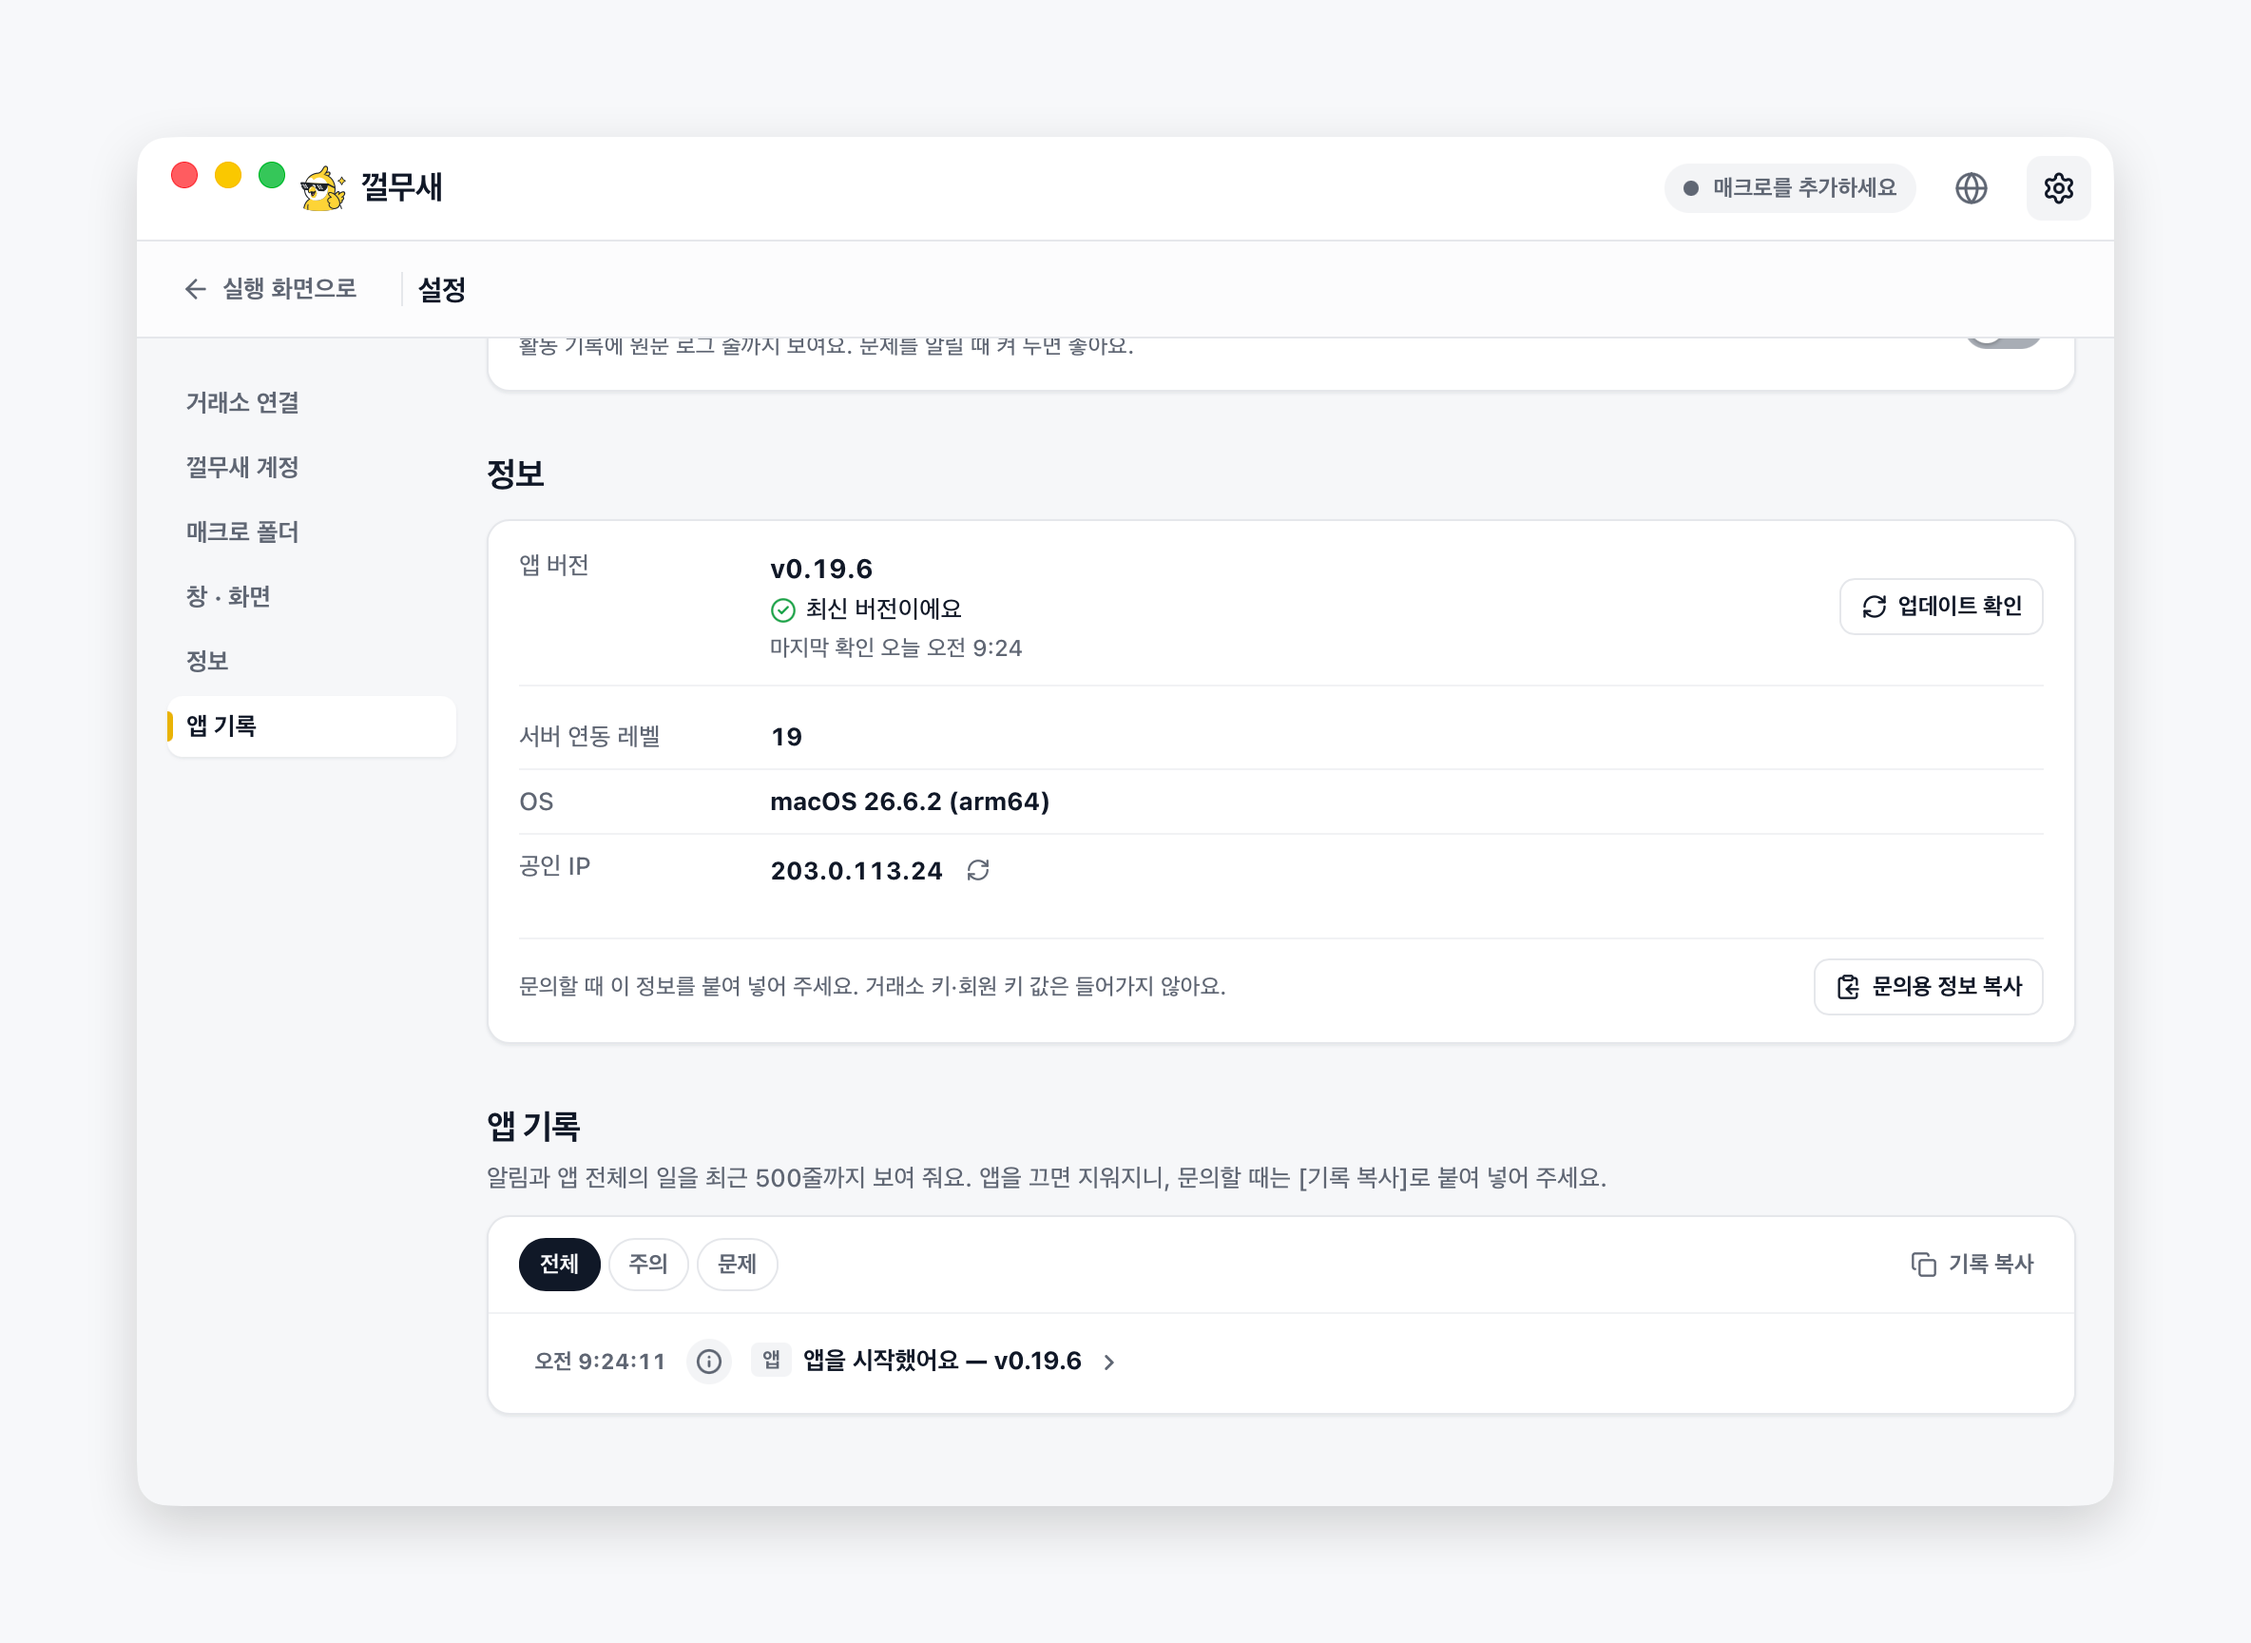
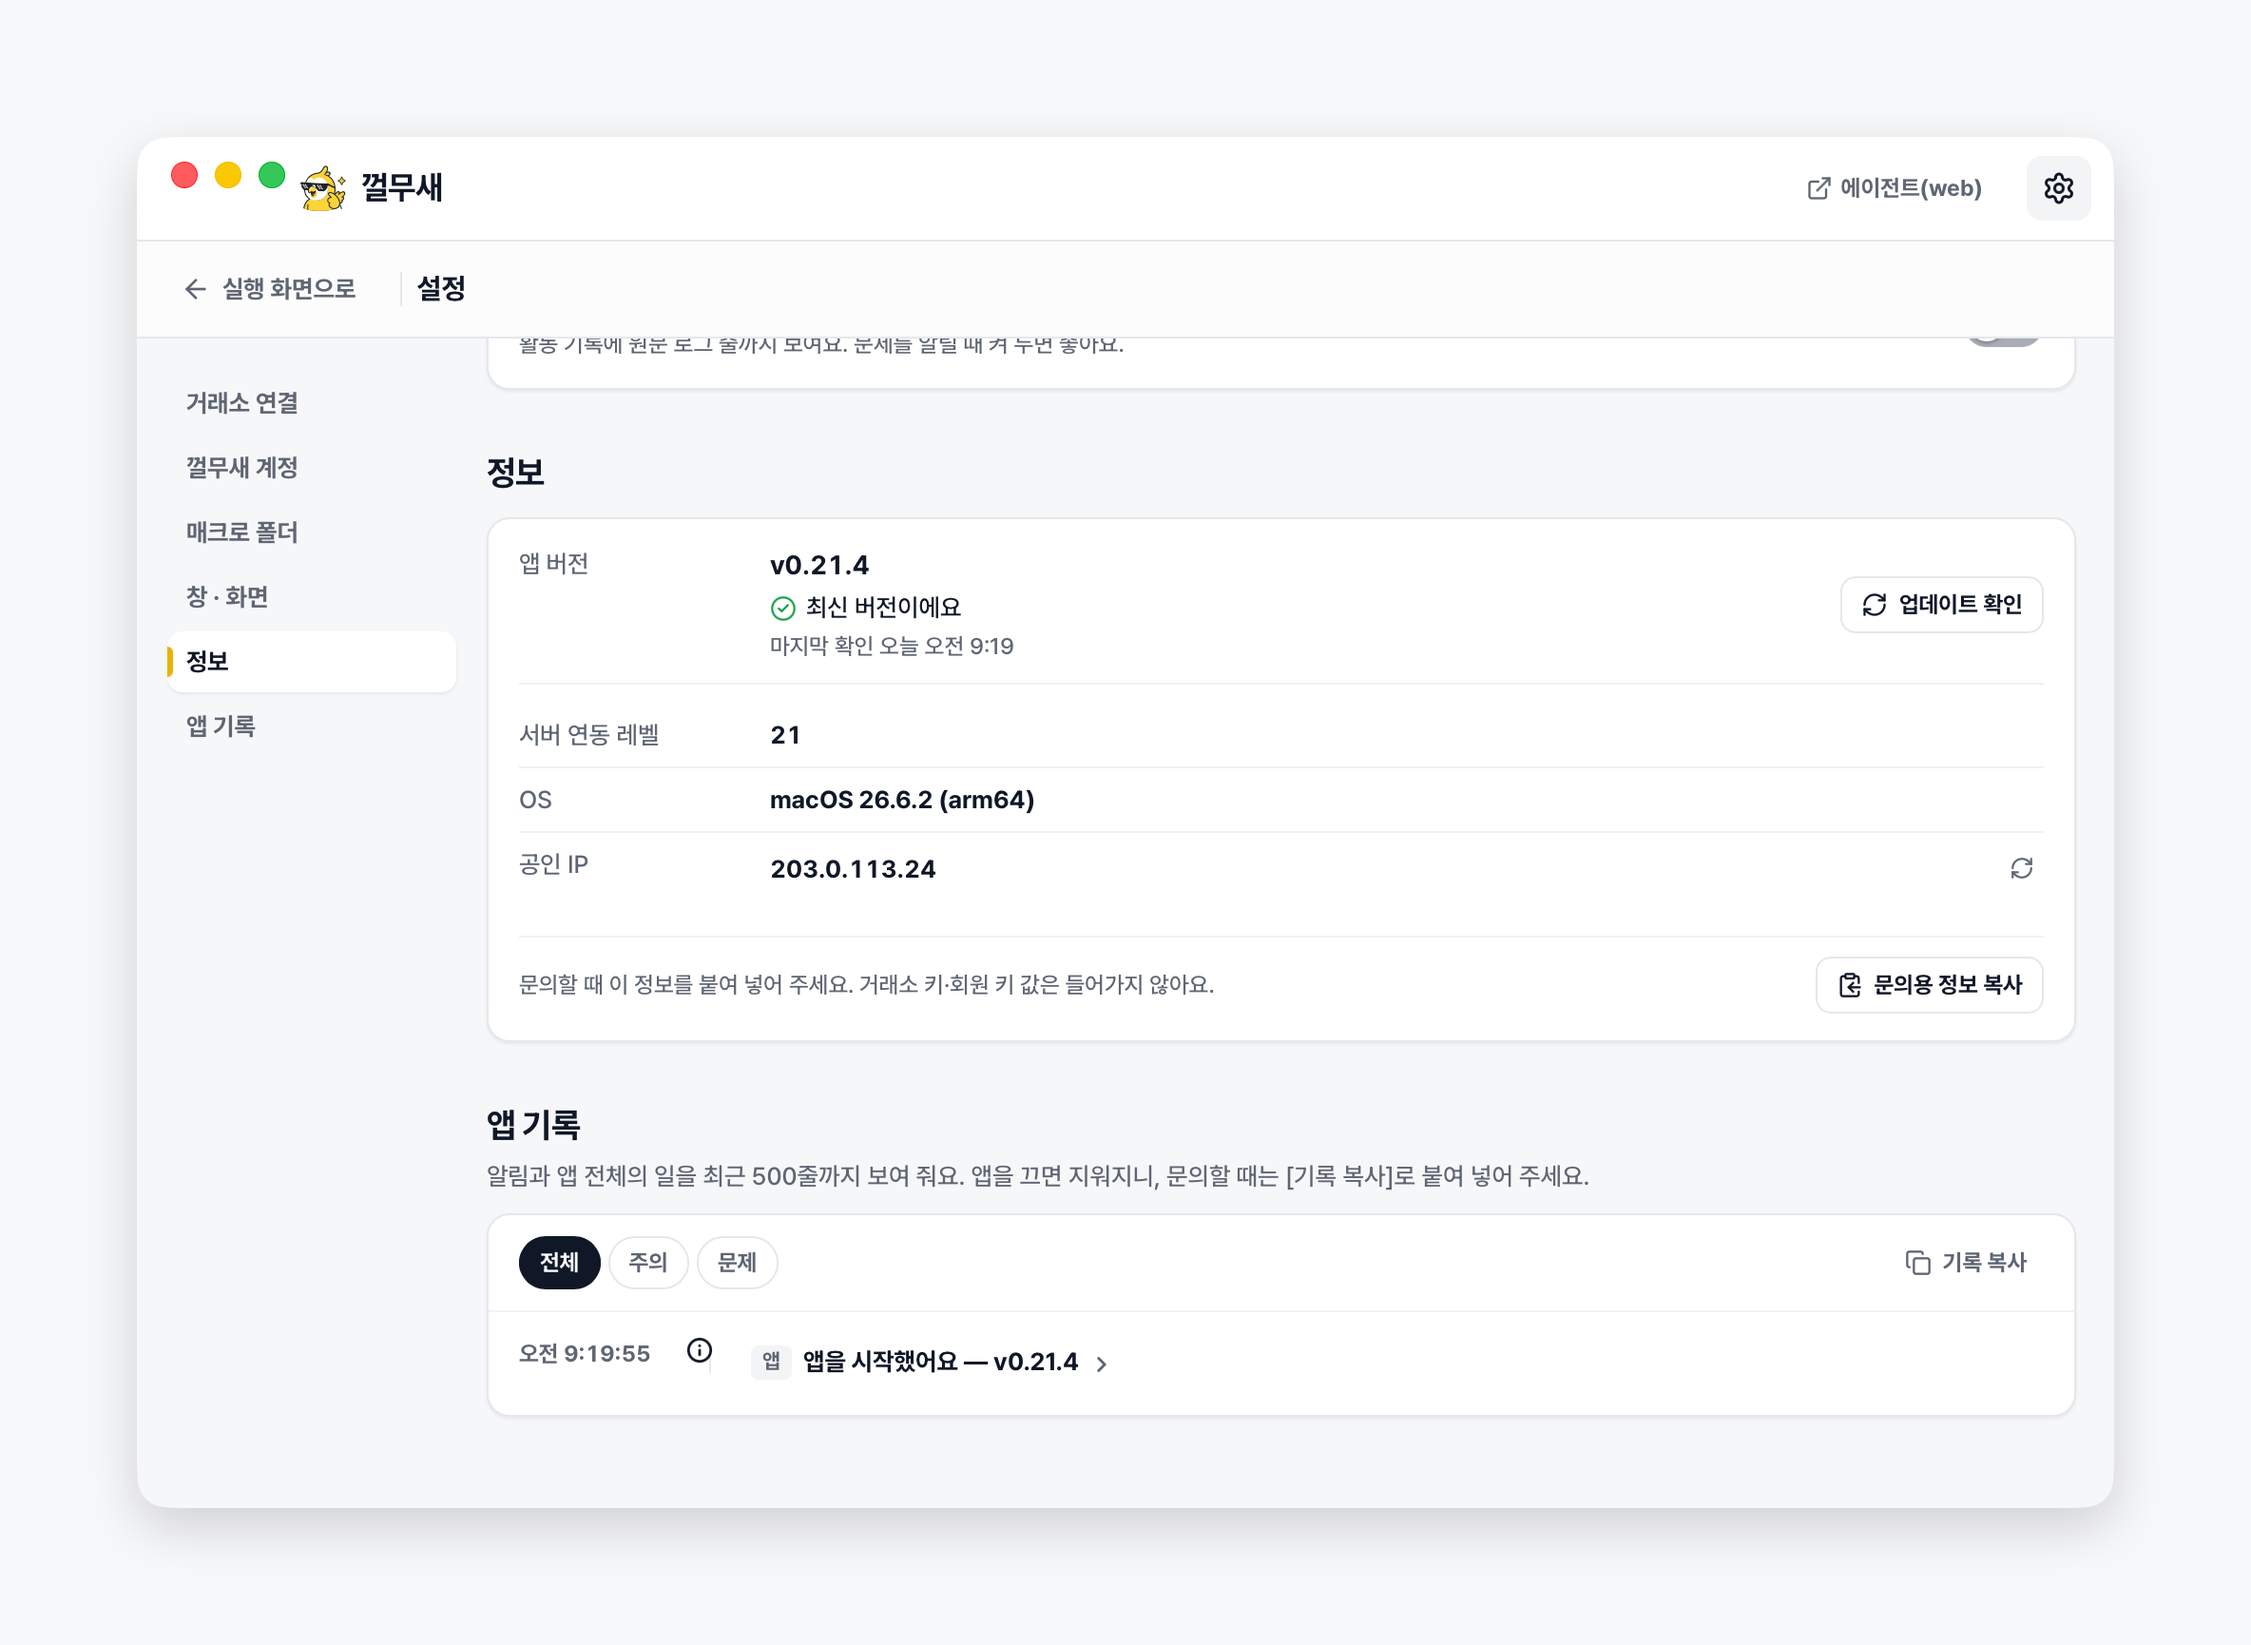
docs(readme): 0.21에 맞춤·화면 스크린샷 다시 찍음
- 서버 연동 레벨 21, 앱 판단(local)·서버 판단(server)으로 나눈 동작·역할 표
- 기능 표에 차트·테마·알림, 지구본 단추 → [에이전트(web)]
- 구조에 bot/·engine/·candles.rs
- 스크린샷을 실제 앱(가짜 서버·모의)으로 다시 찍음, 첫 화면·다크 테마 추가

diff --git a/README.md b/README.md
@@ -5,13 +5,13 @@
 - **macOS와 Windows**에서 같은 방식으로 동작함.
 - 앱 버전:
   - `src-tauri/Cargo.toml`의 `[workspace.package] version` 한 곳에만 적음.
-  - `v{major}.{minor}.{patch}` 체계를 씀. `0.<서버 연동 레벨>.<패치>` — 지금은 `0.20.x`(서버 연동 레벨 20)이고 PR(스쿼시 머지)마다 패치 번호를 올림.
+  - `v{major}.{minor}.{patch}` 체계를 씀. `0.<서버 연동 레벨>.<패치>` — 지금은 `0.21.x`(서버 연동 레벨 21)이고 PR(스쿼시 머지)마다 패치 번호를 올림.
 - 이름:
   - 화면에는 한국어 **껄무새**, 영문 **GGParrot**(띄어쓰기 없음). Windows 설치·시작 메뉴·프로그램 목록은 한국어 '껄무새'.
   - 저장소·실행 파일·패키지·키체인·데이터 폴더는 웹 저장소(`gg_parrot`)와 구분되게 `ggparrot-desktop`.
   - 번들 식별자는 `com.ggparrot.desktop`(역도메인 형식).
   - 웹의 **실행기 열기**는 `ggparrot://` 링크로 이 앱을 엶.
-- 서버 연동 레벨(server link level, 코드 `SERVER_LINK_LEVEL`): 앱 버전의 가운데 숫자(지금 **20**).
+- 서버 연동 레벨(server link level, 코드 `SERVER_LINK_LEVEL`): 앱 버전의 가운데 숫자(지금 **21**).
   - 따로 적는 곳이 없음 — 빌드할 때 앱 버전의 마이너를 그대로 씀. 레벨을 올리려면 `Cargo.toml` 버전 한 곳을 `0.<새 레벨>.0`으로 바꿈.
   - 서버가 기능마다 정한 최소 레벨과 이상인지만 비교해 기능을 열고 닫는 정수: 연결 6, 서버 신호 8, 국내 거래소 10, 바이낸스 웹 바로 실행 19. 모자라면 426('실행기 vN 이상으로 업데이트').
   - 서버가 정한 필드 이름 `runner_version`으로 보냄. 번호의 출처는 Python 실행기 exe의 배포 번호(`runner-vN`).
@@ -25,22 +25,26 @@
 
 ## 화면
 
-| 실행 | 매크로 추가 |
+| 실행(봉 차트·지표선·기다리는 선) | 다크 테마 |
 |---|---|
-| ![두 매크로 동시 실행](docs/screenshots/running.png) | ![매크로 추가 창](docs/screenshots/library.png) |
-| **설정·거래소 연결** | **설정·창 닫아도 계속 실행** |
-| ![설정](docs/screenshots/settings.png) | ![창을 닫아도 계속 실행](docs/screenshots/display.png) |
+| ![네 매크로 동시 실행](docs/screenshots/running.png) | ![다크 테마](docs/screenshots/running-dark.png) |
+| **첫 화면** | **매크로 추가** |
+| ![첫 화면](docs/screenshots/welcome.png) | ![매크로 추가 창](docs/screenshots/library.png) |
+| **설정·거래소 연결** | **설정·창·화면(테마·알림)** |
+| ![설정](docs/screenshots/settings.png) | ![창·화면](docs/screenshots/display.png) |
 | **메뉴 막대(트레이) 메뉴** | **설정·정보(문의용)·앱 기록** |
 | ![트레이 메뉴](docs/screenshots/tray.png) | ![정보](docs/screenshots/about.png) |
 | **연결 도우미·예시 화면** | |
 | ![거래소 화면 예시](docs/screenshots/wizard-example.png) | |
+
+- 화면은 모두 실제 앱(0.21.x)을 가짜 서버·모의 모드로 띄워 찍음. 공인 IP는 문서용 주소(`203.0.113.24`).
 
 업데이트(로컬 업데이트 서버로 실제 설치까지 시험한 화면):
 
 | 새 버전 알림(로고 옆·설정 › 정보) | 내려받는 중 |
 |---|---|
 | ![새 버전 알림](docs/screenshots/update-notice.png) | ![진행률](docs/screenshots/update-downloading.png) |
-| **설치 준비** | **다시 시작 후** |
+| **설치 준비(실행 중인 매크로를 모두 종료한 뒤)** | **다시 시작 후** |
 | ![다시 시작해 설치](docs/screenshots/update-ready.png) | ![업데이트 완료](docs/screenshots/updated.png) |
 
 설치 화면:
@@ -55,8 +59,11 @@
 - 실행 모드는 모의(기본)·테스트넷(바이낸스만)·실전.
   - 실전은 확인 창을 한 번 더 거침.
 - 시작하면 서버에 세션을 만들고 5초마다 상태를 보냄.
-  - 진입·청산은 서버 명령으로만 함.
-  - 로컬에는 손절·일일 최대손실·최대 보유시간 안전망만 남음.
+- 매매 판단을 누가 할지는 서버가 세션마다 정함(시작 응답의 `decides`).
+  - `local`(지금 서버에서 켜 둠): 앱이 거래소 공개 시세에서 마감봉을 받아 이 PC에서 사고팔 판단을 함. 체결은 하트비트로 서버에 보고함.
+  - `server`: 진입·청산은 서버 명령으로만 함.
+  - 앱 엔진은 서버 엔진(파이썬)과 같은 답을 내야 함 — 판단 계약 `tests/fixtures/engine_golden.json`으로 잼.
+- 손절·일일 최대손실·최대 보유시간 안전망은 어느 쪽이든 앱이 지킴.
 - 마이페이지 **내 매크로 실행 현황**에서 원격으로 **매크로만 종료** 또는 **청산 후 종료**를 할 수 있음.
 - 거래소 API 키·시크릿은 서버로 보내지 않음.
   - 서버로 가는 것은 회원 키와 구동 상태·실행 기록뿐임.
@@ -69,10 +76,13 @@
 |---|---|
 | 플랫폼 | macOS `.dmg`·Windows 설치 파일(`-setup.exe`, 사용자 폴더에 설치·관리자 권한 불필요) |
 | 실행 | 여러 매크로 동시 실행(같은 거래소·종목은 하나만) |
-| 화면 | 실행 목록·상세, 따로 여는 설정 화면, 사람이 읽는 활동 기록(원문은 개발자 로그) |
+| 화면 | 실행 목록·상세, 따로 여는 설정 화면, 사람이 읽는 활동 기록(원문은 개발자 로그), 코인 로고 |
+| 차트 | 매크로가 보는 봉 그대로(`lightweight-charts`) — 이동평균·볼린저 밴드·RSI 지표선과 사는·파는 선·손절선·트레일·격자 칸. 확대·이동 됨 |
+| 테마 | 시스템·라이트·다크(설정 › 창·화면) |
+| 알림 | 체결·평가손익 ±2%부터 구간마다·주문 오류와 잔고 부족·서버 끊김·실행 멈춤을 OS 알림으로 띄움. 설정에서 끌 수 있음 |
 | 키 | OS 키체인(macOS 키체인·Windows 자격 증명 관리자)에 둠. 설정 한곳에서 언제나 고침. 바이낸스는 실거래·테스트넷(현물)·데모(선물) 키 칸이 따로 |
 | 매크로 파일 | 앱 데이터 폴더의 `macros` 목록·가져오기·끌어다 놓기·웹 [실행기 열기] |
-| 껄무새 웹 | 머리줄 지구본 단추·메뉴(껄무새 › 껄무새 웹 열기)·트레이·매크로 추가 창에서 https://gg-parrot.vercel.app/ 을 기본 브라우저로 엶 |
+| 껄무새 웹 | 머리줄 [에이전트(web)] 단추·메뉴(껄무새 › 껄무새 웹 열기)·트레이·매크로 추가 창에서 https://gg-parrot.vercel.app/ 을 기본 브라우저로 엶 |
 | 바이낸스 연동 | REST API에 직접 서명해 부름 |
 | 웹 연결 등록 | 설치할 때 `ggparrot://`를 등록함. Windows는 켤 때 HKCU 등록을 다시 함 |
 | 업데이트 | 앱 안에서 확인·내려받기·설치·다시 시작(서명 확인) |
@@ -92,20 +102,20 @@
 
 ## 서버와 앱의 역할 — 서버가 멈추면
 
-- 매매 판단은 서버 전략이 하고, 앱은 그 명령을 거래소에 주문함.
-- 앱이 스스로 판단하는 것은 안전망뿐임.
+- 매매 판단은 세션마다 서버가 정한 쪽이 함 — 앱 판단(`local`, 지금 서버에서 켜 둠) 또는 서버 판단(`server`).
+- 앱 판단이면 서버가 멈춰도 매매가 이어짐. 서버 판단이면 앱이 스스로 하는 것은 안전망뿐임.
 
-| 일 | 판단 | 서버와 연결이 끊기면 |
-|---|---|---|
-| 진입(매수·공매도) | 서버 전략의 명령 | 하지 않음(새 진입 멈춤) |
-| 전략의 청산 신호 | 서버 전략의 명령 | 하지 않음 |
-| 손절 %·하루 최대 손실·최대 보유시간 | 앱(매크로의 `risk`) | 계속 지킴 — 닿으면 앱이 바로 청산 |
-| [청산 후 종료]·[매크로만 종료] | 사용자 | 됨 |
-| 웹의 종료·정리 요청 | 웹 → 서버 → 앱 | 전달되지 않음 — 앱에서 종료해야 함 |
+| 일 | 앱 판단(`local`) | 서버 판단(`server`) | 서버와 연결이 끊기면 |
+|---|---|---|---|
+| 진입(매수·공매도) | 앱 엔진(마감봉) | 서버 전략의 명령 | 앱 판단은 계속함, 서버 판단은 새 진입 멈춤 |
+| 전략의 청산 신호 | 앱 엔진(마감봉) | 서버 전략의 명령 | 앱 판단은 계속함, 서버 판단은 하지 않음 |
+| 손절 %·하루 최대 손실·최대 보유시간 | 앱(매크로의 `risk`) | 앱(매크로의 `risk`) | 계속 지킴 — 닿으면 앱이 바로 청산 |
+| [청산 후 종료]·[매크로만 종료] | 사용자 | 사용자 | 됨 |
+| 웹의 종료·정리 요청 | 웹 → 서버 → 앱 | 웹 → 서버 → 앱 | 전달되지 않음 — 앱에서 종료해야 함 |
 
 - 끊긴 동안 화면·트레이에 '서버 재시도 중'이 보이고, 5분이 넘으면 따로 알림.
 - 앱이 꺼져 있거나 PC가 잠들면 안전망도 멈춤.
-- 앱이 안전망으로 청산한 사실은 아직 서버 전략에 반영되지 않음 — [서버 설계](docs/server-stop-loss-design.md).
+- 서버 판단일 때 앱이 안전망으로 청산한 사실은 아직 서버 전략에 반영되지 않음 — [서버 설계](docs/server-stop-loss-design.md).
 
 ## 개발
 
@@ -185,11 +195,13 @@ npm run build:win
 ```
 src/                      React + TypeScript 화면 (상태는 Rust 가 소유, 화면은 스냅샷만 그림)
   types.ts                Rust ↔ 화면 계약
-src-tauri/src/            Tauri 앱 레이어 (명령 · 연결 도우미 · 딥링크 · 단일 인스턴스)
+src-tauri/src/            Tauri 앱 레이어 (명령 · 상태 · 트레이 · 연결 도우미 · 딥링크 · 단일 인스턴스)
 src-tauri/crates/runner-core/
   brokers/                바이낸스 · 업비트 · 빗썸 · 모의
-  bot.rs                  실행 루프
-  server.rs               서버 클라이언트
+  bot/                    실행 루프 · 주문 · 보고 · 앱 판단(local.rs)
+  engine/                 매매 판단 엔진 — 규칙 · 지표 · 장부 · 차트 지표선(서버와 같은 답, 판단 계약)
+  candles.rs              거래소 공개 시세의 마감봉(봉 간격 격자는 intervals.rs)
+  server.rs · server/     서버 클라이언트
   outbox.rs               실행 기록 보관함
   credentials.rs          키체인 저장 규칙
   connection.rs           연결 검사 · 공인 IP · 키 마스킹

diff --git a/CHANGELOG.md b/CHANGELOG.md
@@ -19,6 +19,7 @@
   - Promise 아닌 값의 `await` 2건(`App.test`의 `pushState`), 객체를 글자로 바꿀 수 있는 곳 3건(모의 IPC의 키 입력), 비교 함수 없는 `sort` 2건(`commands.test`).
   - `unbound-method`는 끔 — 훅이 돌려준 함수 묶음을 구조 분해하는 곳마다(70건) 걸려 소음뿐임.
 - 편집기 권장 확장을 Prettier에서 oxc(`oxc.oxc-vscode`)로. 이제 JS·TS 도구는 번들(Rolldown)·변환·압축(Vite 8)·린트·포맷 모두 oxc 기반.
+- README를 0.21에 맞춤 — 서버 연동 레벨 21, 앱 판단(`decides: "local"`)과 서버 판단을 나눈 동작·역할 표, 기능 표(차트·테마·알림·[에이전트(web)]), 구조(`bot/`·`engine/`·`candles.rs`). 화면 스크린샷을 실제 앱으로 다시 찍고 첫 화면·다크 테마를 더함.
 - 동작 변경 없음.
 
 ## [0.21.3]
